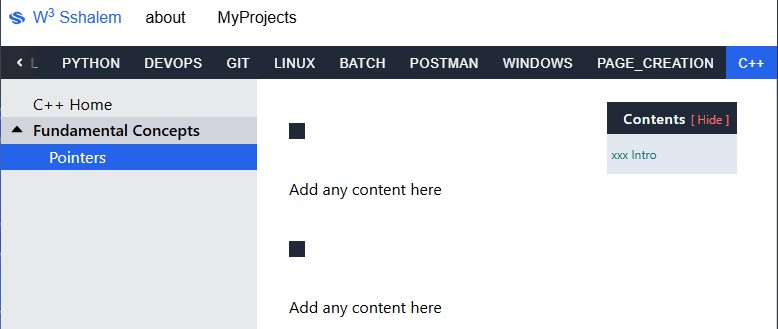
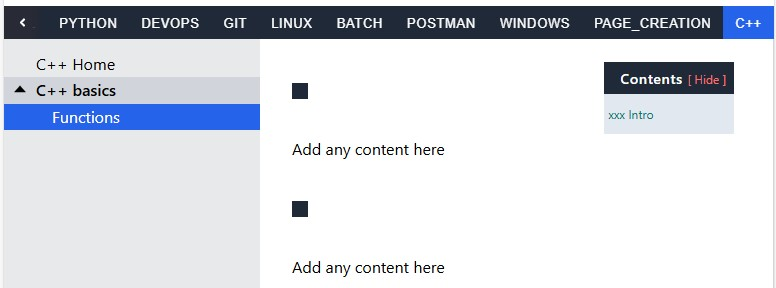
08-10-2025  4:12

diff --git a/src/pages/Cpp/CppComponents/CppBasicsPkg/FunctionsSections/FunctionsMain.tsx b/src/pages/Cpp/CppComponents/CppBasicsPkg/FunctionsSections/FunctionsMain.tsx
@@ -1,23 +1,21 @@
 import { useEffect, useRef, useState } from "react";
 import { ContentMenu } from "../../../../../components";
-// import FunctionsIntro from "./FunctionsIntro";
-// import FunctionsTwo from "./FunctionsTwo";
+import FunctionsIntro from "./FunctionsIntro";
+import FunctionsTwo from "./FunctionsTwo";
 
 // ===========================================
 // ==     content menu (title name)         ==
 // ===========================================
 
-// const functions_intro = "functions intro";
-// const functions_two = "functions two";
-
-const xxx_intro = "xxx Intro";
+const functions_intro = "functions intro";
+const functions_two = "functions two";
 
 // ===========================================
 // == Update anchorList with  content menu  ==
 // ===========================================
 
-// const anchorList: string[] = [functions_intro, functions_two];
-const anchorList: string[] = [xxx_intro];
+const anchorList: string[] = [functions_intro, functions_two];
+
 // ============================================
 // ============================================
 
@@ -53,8 +51,8 @@ const FunctionsMain = () => {
         ulRef={ulRef}
       />
       {/* End Contents */}
-      {/* <FunctionsIntro anchor={functions_intro} />
-      <FunctionsTwo anchor={functions_two} /> */}
+      <FunctionsIntro anchor={functions_intro} />
+      <FunctionsTwo anchor={functions_two} />
       <div className="my-8 h-4">{/* {this div is only for dividing} */}</div>
     </section>
   );

diff --git a/src/pages/PageCreate/PageCreateComponents/SpecificationDocsPkg/CreateStepsSection/CreateStep8.tsx b/src/pages/PageCreate/PageCreateComponents/SpecificationDocsPkg/CreateStepsSection/CreateStep8.tsx
@@ -31,7 +31,7 @@ const CreateStep8 = ({ anchor }: { anchor: string }) => {
             </li>
           </ul>
           <JsxHighlight jsxCode={jsxCode_section_internal_code}></JsxHighlight>
-          Folder layout ,with The 2 created components inside the
+          Folder layout ,with The 2 created components inside <SpanBlue>FunctionsSection</SpanBlue> folder
           <IMG img_name={page_create_18} />
         </li>
         {/* <li className="my-1">
